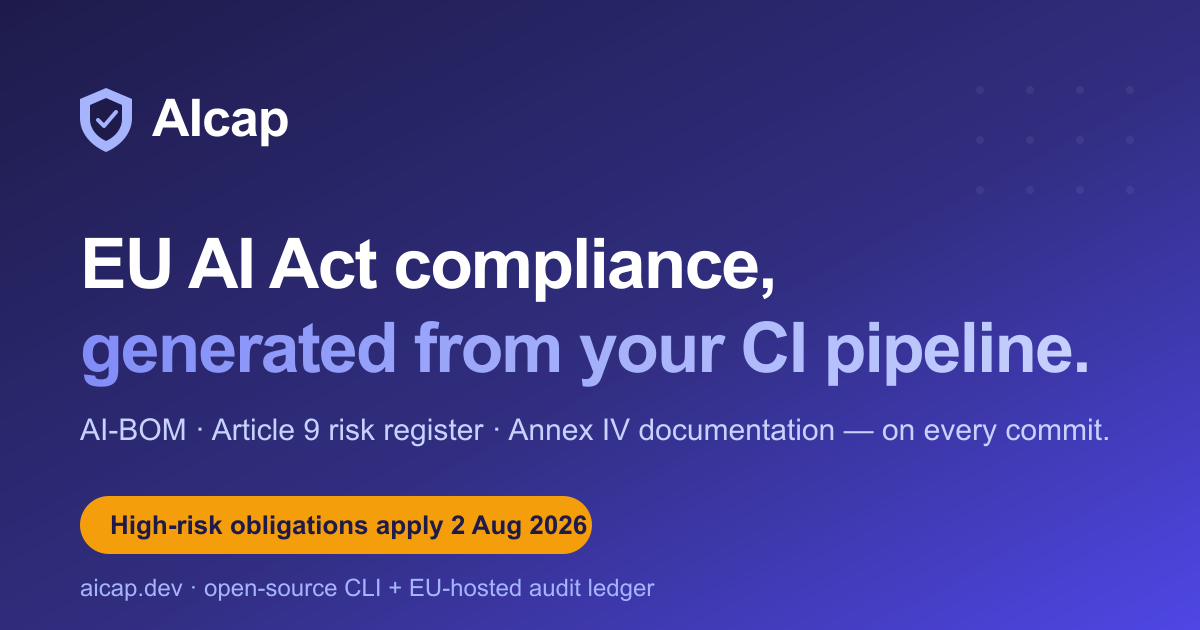
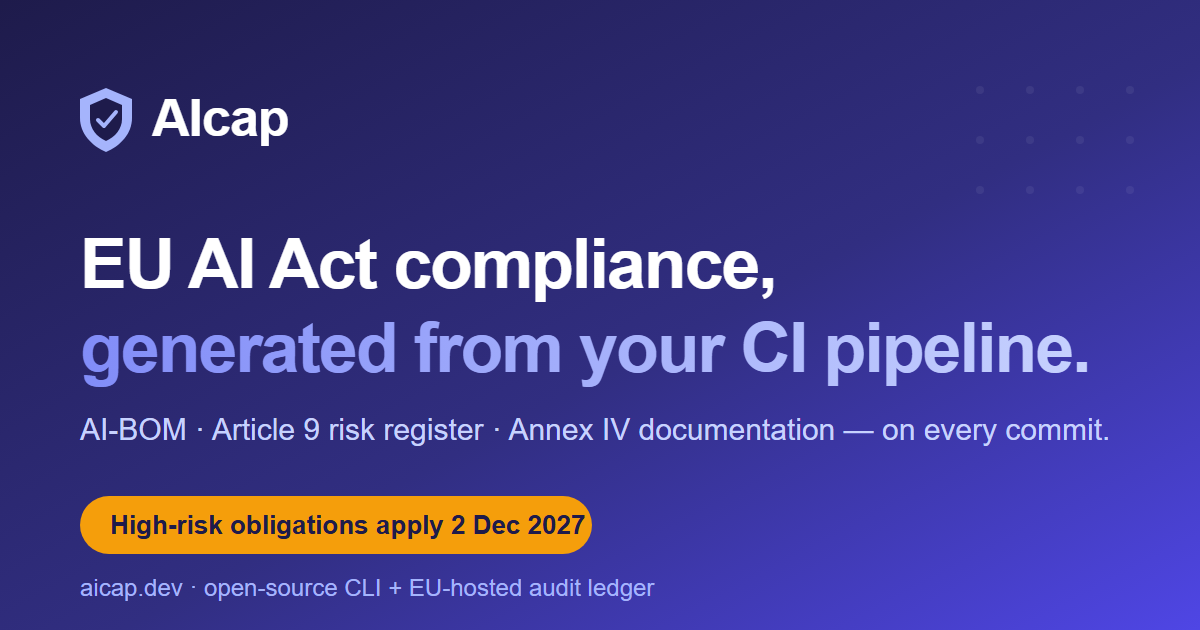
fix(site): the high-risk regime applies from December 2027, not August 2026
Regulation (EU) 2026/1744 (the "Digital Omnibus on AI", OJ L 24.7.2026)
amended Article 113: Chapter III, Sections 1-3 -- and with them Article 11
and Annex IV -- now apply from 2 December 2027 for Annex III systems and
2 August 2028 for Annex I systems. Article 50 was not moved and has applied
since 2 August 2026.

The site never caught up. The badge counted down to 2 August 2026 and then
flipped to "EU AI Act obligations are now in force"; the hero said every AI
system shipped to the EU had to comply by August 2026, which was not true
even before the amendment (the Act never applied to every system); the
social-preview image carried the old date; three guides repeated it.

- deadline.js targets 2 December 2027, and a test pins the date so the next
  change to it is a deliberate one.
- Badge copy names the obligation and the date in both states.
- Hero, page metadata and footer state what applies now and what applies
  later, rather than one undifferentiated deadline.
- Penalties guide rewritten against the amended text. It keeps its URL and
  now leads with what is enforceable today: Article 5, Article 50, GPAI.
- OG image re-rasterised. The SVG asked for font-weight 800, which Arial
  does not have; rasterisers disagree on the fallback and one clipped the
  headline. It now asks for 700, which is what the original PNG showed.
- Structured data claimed macOS and Windows support. The released binary
  is linux-amd64 only.
[…]

diff --git a/frontend/src/components/LandingAuth.jsx b/frontend/src/components/LandingAuth.jsx
@@ -2,28 +2,33 @@ import React, { useState } from 'react';
 import { Shield, CheckCircle, AlarmClock, MailCheck } from 'lucide-react';
 
 import { supabase } from '../lib/supabase.js';
-import { daysUntilAIAct } from '../lib/deadline.js';
+import { daysUntilHighRisk } from '../lib/deadline.js';
 import SampleReportSection from './SampleReportSection.jsx';
 import PricingSection from './PricingSection.jsx';
 import FAQSection from './FAQSection.jsx';
 import MarketingFooter from './MarketingFooter.jsx';
 
-// Deadline urgency chip: counts down to 2 August 2026 (EU AI Act
-// application date) and flips to "in force" copy once it passes, so
-// the landing page never shows a stale countdown.
+// Deadline chip: counts down to 2 December 2027, when the high-risk
+// regime (and with it Annex IV) applies to Annex III systems, and
+// switches to past-tense copy once that date passes.
+//
+// Both strings name the obligation and the date. The previous version
+// said "EU AI Act obligations are now in force" with neither — which
+// became false for the high-risk regime the moment Regulation (EU)
+// 2026/1744 moved it, and nothing on the page could tell a reader so.
 function DeadlineBadge() {
-  const days = daysUntilAIAct();
+  const days = daysUntilHighRisk();
   if (days > 0) {
     return (
       <div className="inline-flex items-center gap-2 px-3 py-1 bg-amber-100 text-amber-800 text-sm font-bold rounded-full">
         <AlarmClock className="w-4 h-4" />
-        {days} day{days === 1 ? '' : 's'} until EU AI Act obligations apply — 2 August 2026
+        {days} day{days === 1 ? '' : 's'} until high-risk obligations apply — 2 December 2027
       </div>
     );
   }
   return (
     <div className="inline-flex items-center gap-2 px-3 py-1 bg-red-100 text-red-700 text-sm font-bold rounded-full">
-      <AlarmClock className="w-4 h-4" /> EU AI Act obligations are now in force
+      <AlarmClock className="w-4 h-4" /> High-risk obligations have applied since 2 December 2027
     </div>
   );
 }
@@ -83,7 +88,7 @@ export default function LandingAuth() {
             Secure your AI supply chain. <span className="text-indigo-600">Automate compliance.</span>
           </h2>
           <p className="text-lg text-slate-600 leading-relaxed">
-            Every AI system shipped to the EU market must comply with the AI Act by August 2026. AIcap runs natively inside your CI/CD pipeline to generate your AI-BOM, track risks, and maintain an Immutable Audit Ledger.
+            The EU AI Act's Article 50 transparency duties have applied since 2 August 2026, and the high-risk regime — including Annex IV technical documentation — applies from 2 December 2027. AIcap runs natively inside your CI/CD pipeline to generate your AI-BOM, track risks, and maintain an Immutable Audit Ledger.
           </p>
           <div className="space-y-4 pt-4">
             <div className="flex items-start gap-3">

diff --git a/frontend/src/lib/deadline.js b/frontend/src/lib/deadline.js
@@ -1,12 +1,23 @@
-// EU AI Act application date for the bulk of obligations, including
-// high-risk system requirements (Art. 113): 2 August 2026. The landing
-// page counts down to this date; once it passes, the urgency framing
-// flips from "deadline approaching" to "obligations in force" so the
-// copy never goes stale.
-export const AI_ACT_DEADLINE = new Date('2026-08-02T00:00:00Z');
+// EU AI Act application date for the high-risk regime (Chapter III,
+// Sections 1-3 — which is where Article 11 and Annex IV live) for
+// stand-alone Annex III systems: 2 December 2027.
+//
+// This was 2 August 2026 until Regulation (EU) 2026/1744 (the "Digital
+// Omnibus on AI", OJ L 24.7.2026) amended Article 113. The same
+// regulation set 2 August 2028 for Annex I systems (AI in regulated
+// products). Article 50 transparency duties were NOT moved and have
+// applied since 2 August 2026 — the landing copy says so separately,
+// because "nothing applies until 2027" would be as wrong as the old
+// "everything applies in 2026".
+//
+// If the date moves again, change it here and in the copy that quotes
+// it: LandingAuth.jsx, index.html, public/og-image.svg (+ re-rasterise
+// the PNG), and the guides under frontend/guides/.
+export const HIGH_RISK_APPLIES = new Date('2027-12-02T00:00:00Z');
 
-// Whole days remaining until the deadline (ceiling, so the morning of
-// 1 August still reads "1 day"). Zero or negative means it has passed.
-export function daysUntilAIAct(now = new Date()) {
-  return Math.ceil((AI_ACT_DEADLINE - now) / 86400000);
+// Whole days remaining until the high-risk regime applies (ceiling, so
+// the morning of 1 December still reads "1 day"). Zero or negative
+// means it has passed.
+export function daysUntilHighRisk(now = new Date()) {
+  return Math.ceil((HIGH_RISK_APPLIES - now) / 86400000);
 }

diff --git a/frontend/src/lib/deadline.test.js b/frontend/src/lib/deadline.test.js
@@ -1,18 +1,26 @@
 import { describe, it, expect } from 'vitest';
 
-import { daysUntilAIAct } from './deadline.js';
+import { HIGH_RISK_APPLIES, daysUntilHighRisk } from './deadline.js';
 
-describe('daysUntilAIAct', () => {
-  it('counts whole days remaining before the deadline', () => {
-    expect(daysUntilAIAct(new Date('2026-07-06T12:00:00Z'))).toBe(27);
+describe('daysUntilHighRisk', () => {
+  // Pins the date itself. Regulation (EU) 2026/1744 moved the Annex III
+  // high-risk regime from 2 August 2026 to 2 December 2027; the landing
+  // page kept counting down to (and then announcing) the old date for
+  // months. A change here should be a deliberate, sourced edit.
+  it('targets 2 December 2027, the Annex III high-risk application date', () => {
+    expect(HIGH_RISK_APPLIES.toISOString()).toBe('2027-12-02T00:00:00.000Z');
   });
 
-  it('reads 1 day on the eve of the deadline', () => {
-    expect(daysUntilAIAct(new Date('2026-08-01T09:00:00Z'))).toBe(1);
+  it('counts whole days remaining before the date', () => {
+    expect(daysUntilHighRisk(new Date('2027-11-05T12:00:00Z'))).toBe(27);
   });
 
-  it('is zero or negative once the deadline has passed', () => {
-    expect(daysUntilAIAct(new Date('2026-08-02T00:00:00Z'))).toBe(0);
-    expect(daysUntilAIAct(new Date('2026-09-15T00:00:00Z'))).toBeLessThan(0);
+  it('reads 1 day on the eve of the date', () => {
+    expect(daysUntilHighRisk(new Date('2027-12-01T09:00:00Z'))).toBe(1);
+  });
+
+  it('is zero or negative once the date has passed', () => {
+    expect(daysUntilHighRisk(new Date('2027-12-02T00:00:00Z'))).toBe(0);
+    expect(daysUntilHighRisk(new Date('2028-01-15T00:00:00Z'))).toBeLessThan(0);
   });
 });

diff --git a/frontend/index.html b/frontend/index.html
@@ -17,7 +17,7 @@
     <meta property="og:type" content="website" />
     <meta property="og:site_name" content="AIcap" />
     <meta property="og:title" content="AIcap — EU AI Act Compliance Scanner for CI/CD" />
-    <meta property="og:description" content="Generate AI-BOMs, Annex IV documentation, OWASP ML risk registers, and GPU cost estimates from your CI pipeline. Built for the August 2026 EU AI Act deadline." />
+    <meta property="og:description" content="Generate AI-BOMs, Annex IV documentation, OWASP ML risk registers, and GPU cost estimates from your CI pipeline. Covers the Article 50 transparency duties in force since August 2026 and the high-risk regime that applies from December 2027." />
     <meta property="og:url" content="https://aicap.dev/" />
     <meta property="og:image" content="https://aicap.dev/og-image.png" />
     <meta property="og:image:width" content="1200" />
@@ -45,7 +45,7 @@
       "description": "Continuous AI-BOM and EU AI Act compliance scanner. Generates Annex IV documentation, an OWASP ML Top 10 risk register with live CVE data, Article 5 and Article 50 checks, and an immutable proof-drill audit ledger from your CI pipeline.",
       "applicationCategory": "DeveloperApplication",
       "applicationSubCategory": "Compliance Scanner",
-      "operatingSystem": "Linux, macOS, Windows",
+      "operatingSystem": "Linux",
       "offers": [
         {
           "@type": "Offer",

diff --git a/frontend/src/components/MarketingFooter.jsx b/frontend/src/components/MarketingFooter.jsx
@@ -40,7 +40,7 @@ export default function MarketingFooter() {
         <div>
           <h3 className="font-bold text-slate-900 mb-3">Compliance</h3>
           <ul className="space-y-2 text-slate-600">
-            <li>EU AI Act (Aug 2026)</li>
+            <li>EU AI Act (Reg. 2024/1689)</li>
             <li>CycloneDX 1.5</li>
             <li>OWASP ML Top 10</li>
             <li>MITRE ATLAS</li>

diff --git a/frontend/guides/eu-ai-act-penalties-august-2026.md b/frontend/guides/eu-ai-act-penalties-august-2026.md
@@ -1,56 +1,90 @@
 ---
-title: EU AI Act penalties — what actually happens after 2 August 2026
-description: The real enforcement picture — penalty tiers up to €35M or 7% of turnover, who enforces them, what triggers them, and the engineering work that reduces exposure.
-date: 2026-07-06
+title: EU AI Act penalties — what applies now, and what moved to December 2027
+description: The real enforcement picture after the Digital Omnibus — which obligations are already enforceable, which moved to 2027 and 2028, the penalty tiers up to €35M or 7% of turnover, and the engineering work that reduces exposure.
+date: 2026-11-15
 ---
 
-# EU AI Act penalties: what actually happens after 2 August 2026
+# EU AI Act penalties: what applies now, and what moved to December 2027
 
-On **2 August 2026**, the bulk of the EU AI Act's obligations become
-applicable — including the high-risk system requirements and their
-enforcement regime. Here is what the penalty structure actually says, who
-enforces it, and what engineering teams can do that measurably reduces
-exposure.
+This guide originally described 2 August 2026 as the date the bulk of the
+EU AI Act became applicable, including the high-risk regime. That is no
+longer accurate. **Regulation (EU) 2026/1744** — the "Digital Omnibus on
+AI", published in the Official Journal on 24 July 2026 — moved the
+high-risk dates. The guide has been rewritten against the amended text.
+
+## The dates, as amended
+
+| Date | What applies |
+|---|---|
+| 2 February 2025 | Article 5 prohibited practices |
+| 2 August 2025 | General-purpose model obligations (Chapter V) and the penalty regime (Chapter XII) |
+| **2 August 2026** | **Article 50 transparency duties**, and the remainder of the Act not listed elsewhere |
+| 2 December 2026 | Article 50(2) machine-readable marking for generative systems already on the market before 2 August 2026; additional Article 5 prohibitions added by the Omnibus |
+| **2 December 2027** | **High-risk requirements (Chapter III, Sections 1–3) for Annex III systems** — previously 2 August 2026 |
+| 2 August 2028 | The same requirements for Annex I systems (AI in regulated products) — previously 2 August 2027 |
+| 2 August 2030 | High-risk systems intended for use by public authorities |
+
+Two things follow. The high-risk documentation duty — Article 11 and
+Annex IV — is not yet enforceable for most systems. And the Act is not
+dormant either: the prohibitions, the general-purpose model duties, and the
+Article 50 transparency duties are all applicable today.
 
 ## The three penalty tiers (Article 99)
 
 | Violation | Maximum fine |
 |---|---|
 | Prohibited practices (Art. 5 — social scoring, manipulative systems, most real-time biometric ID) | **€35M or 7%** of global annual turnover |
-| Non-compliance with high-risk obligations (Arts. 8–15: risk management, data governance, **technical documentation**, human oversight, accuracy) | **€15M or 3%** of global annual turnover |
+| Non-compliance with operator obligations — the high-risk requirements (risk management, data governance, **technical documentation**, human oversight, accuracy) and the **Article 50 transparency duties** | **€15M or 3%** of global annual turnover |
 | Supplying incorrect or misleading information to authorities | **€7.5M or 1%** of global annual turnover |
 
 Whichever is *higher* applies — except for SMEs and startups, where
-whichever is *lower* applies. That SME carve-out matters, but a
-percentage-of-turnover fine is existential at any size.
+whichever is *lower* applies. The Omnibus extended that lower-of rule to
+small mid-cap companies as well. These are statutory ceilings, not tariffs:
+authorities must set fines proportionately. A percentage-of-turnover
+ceiling is still not something to plan around hitting.
+
+## What is enforceable today
+
+- **Article 5.** If a component in your system infers emotion in a
+  workplace or classroom, or performs biometric categorisation or
+  identification, the question of whether a prohibition applies is a live
+  one now, in the highest penalty tier.
+- **Article 50.** Telling people they are interacting with an AI system,
+  marking synthetic output machine-readably, informing people subject to
+  emotion recognition or biometric categorisation, and disclosing deep
+  fakes. If you put a generative system on the market on or after
+  2 August 2026, the marking duty has applied to it from day one. If it was
+  already on the market before that date, you have until 2 December 2026.
+- **General-purpose model duties**, if you are a model provider rather than
+  a deployer.
 
 ## Who actually enforces this
 
 - **National market surveillance authorities** (one or more per member
-  state) handle high-risk systems. They can demand your technical
-  documentation, order corrective action, and ultimately pull a system from
-  the market.
+  state) handle AI systems. They can demand documentation, order corrective
+  action, and ultimately pull a system from the market.
 - **The European AI Office** oversees general-purpose model providers
   directly.
 - **Anyone can complain.** Article 85 gives any person the right to lodge an
   infringement complaint with a market surveillance authority — a
   disgruntled user, a competitor, an NGO.
 
-The realistic first-contact scenario is not a dawn raid. It is a **document
-request**: the authority asks for your Annex IV technical documentation and
-your Article 9 risk management evidence, typically with a deadline in weeks.
-What happens next depends almost entirely on whether that documentation
-exists and is current.
+The realistic first-contact scenario is not a dawn raid. It is a **request
+for information**: the authority asks what the system does, what it is
+built from, and what you did about the duty in question, typically with a
+deadline in weeks. What happens next depends almost entirely on whether an
+accurate, current answer already exists.
 
 ## The two failure modes that generate fines
 
-**1. You have no documentation.** Article 11 requires technical
-documentation to exist *before* market placement and to be kept up to date.
-"We were going to write it" is a tier-2 violation on its face.
+**1. You have nothing to show.** For a high-risk system, Article 11 requires
+technical documentation to exist *before* market placement and to be kept
+up to date. From 2 December 2027, "we were going to write it" is a
+violation on its face.
 
-**2. Your documentation contradicts your system.** The component list says
-scikit-learn; the container ships a fine-tuned Llama. Now you are in tier-3
-territory too — incorrect information supplied to an authority — and you
+**2. What you show contradicts your system.** The component list says
+scikit-learn; the container ships a fine-tuned Llama. Now you are in the
+third tier too — incorrect information supplied to an authority — and you
 have converted an administrative gap into a credibility problem.
 
 The second failure mode is the insidious one, because it is the *default
@@ -60,14 +94,15 @@ written last quarter.
 
 ## What reduces exposure, in order of effort
 
-1. **Classify honestly, now.** Map your systems against Annex III. The
-   analysis costs a workshop; discovering you were high-risk during a
-   document request costs much more.
+1. **Classify honestly, now.** Map your systems against Article 5,
+   Article 50, and Annex III. The analysis costs a workshop; discovering
+   you were in scope during an information request costs much more.
 2. **Generate the mechanical evidence continuously.** Component inventory
    (AI-BOM), per-component risk register, hardware description — these can
-   be produced from your repository on every commit. Continuous generation
-   is not just cheaper; Article 9 *requires* risk management to be
-   "continuous and iterative", so the process itself is evidence.
+   be produced from your repository on every commit. Article 9 requires
+   high-risk risk management to be "continuous and iterative", so a
+   process that has been running since before the application date is
+   itself evidence.
 3. **Make the record tamper-evident.** When an authority asks "what did you
    know and when", a hash-chained ledger of every scan — where editing or
    deleting a historical entry visibly breaks the chain — is a categorically
@@ -77,22 +112,32 @@ written last quarter.
    oversight design, accuracy claims. No tool writes these; every tool
    should embed them.
 
-## The uncomfortable part of the timeline
+## What the delay does and does not buy you
 
-Enforcement authority appointments and procedures are still maturing across
-member states, and early enforcement will likely be complaint-driven and
-uneven. It is tempting to read that as "nothing will happen for a while".
-Two problems with that bet: the *documentation* obligation is binary and
-retrospective — a system placed on the market in August 2026 without
-documentation is non-compliant from day one, whenever the question arrives —
-and your **enterprise customers are not waiting**: AI Act evidence is
-already appearing in procurement questionnaires, which is a faster and more
-certain enforcement mechanism than any regulator.
+The stated reason for the delay is that harmonised standards and national
+authorities were not ready. It is tempting to read sixteen extra months as
+sixteen months in which nothing needs doing. Three reasons not to:
+
+- A high-risk system already on the market is brought into scope by a
+  significant design change after the application date. The inventory you
+  will need in order to know whether a change is significant is the one
+  you would be building now.
+- The duties that did *not* move — Article 5 and Article 50 — attach to
+  the same components. An inventory that tells you which of your services
+  generate synthetic content or call a general-purpose model is the
+  starting point for both.
+- Your **enterprise customers are not waiting**. AI Act evidence appears in
+  procurement questionnaires regardless of the regulator's calendar, which
+  is a faster and more certain enforcement mechanism than any authority.
 
 ## Start with the part that costs one CI job
 
-The mechanical half of the evidence (AI-BOM, risk register, Annex IV draft,
-immutable scan ledger) is a single GitHub Actions job with AIcap — free CLI,
-EU-hosted ledger, and your source code never leaves your pipeline. The
-judgement half is yours either way; stop spending engineering time on the
-half that automates.
+The mechanical half of the evidence (AI-BOM, risk register, Article 5 and
+Article 50 indicators, Annex IV draft, hash-chained scan ledger) is a
+single GitHub Actions job with AIcap — free CLI, EU-hosted ledger, and your
+source code never leaves your pipeline. The judgement half is yours either
+way; stop spending engineering time on the half that automates.
+
+This guide is engineering guidance, not legal advice. Check the dates above
+against the Official Journal text of Regulation (EU) 2024/1689 as amended
+before relying on them.

diff --git a/frontend/guides/eu-ai-act-annex-iv-technical-documentation-checklist.md b/frontend/guides/eu-ai-act-annex-iv-technical-documentation-checklist.md
@@ -8,8 +8,10 @@ date: 2026-07-06
 
 If you provide a **high-risk AI system** in the EU, Article 11 of the AI Act
 requires technical documentation *before* the system goes on the market — and
-Annex IV defines exactly what that documentation must contain. From
-**2 August 2026**, this stops being a future obligation.
+Annex IV defines exactly what that documentation must contain. For
+stand-alone (Annex III) high-risk systems the obligation applies from
+**2 December 2027**; for AI in regulated products (Annex I), from
+**2 August 2028**.
 
 This checklist walks through every Annex IV section from an engineering
 perspective: what evidence satisfies it, and whether it can be generated from
@@ -116,7 +118,16 @@ auditor sees "we looked and found nothing automated" rather than silence.
 
 ## Timeline reality check
 
-The obligations for most high-risk systems apply from **2 August 2026**.
+The high-risk obligations were originally due to apply from 2 August 2026.
+Regulation (EU) 2026/1744 (the "Digital Omnibus on AI", published 24 July
+2026) moved them: **2 December 2027** for Annex III systems, **2 August
+2028** for Annex I systems, and 2 August 2030 for high-risk systems
+intended for use by public authorities. A system already on the market
+before its date comes into scope when its design changes significantly
+afterwards.
+
 Documentation must exist *before* market placement, and Article 99 penalties
 for non-compliance with high-risk obligations reach **€15 million or 3% of
-global turnover**. Starting the mechanical half today costs one CI job.
+global turnover**. Starting the mechanical half today costs one CI job — and
+a record that has been accumulating since before the application date is a
+better answer to "since when?" than one that starts the week before.

diff --git a/frontend/guides/eu-ai-act-article-53-gpai-documentation.md b/frontend/guides/eu-ai-act-article-53-gpai-documentation.md
@@ -6,8 +6,9 @@ date: 2026-07-06
 
 # Article 53: documentation duties for GPAI model providers
 
-Most EU AI Act coverage fixates on high-risk *systems* and the August 2026
-date. But if you provide a **general-purpose AI model** — including a
+Most EU AI Act coverage fixates on high-risk *systems* and their application
+date — now 2 December 2027, after the Digital Omnibus moved it from August
+2026. But if you provide a **general-purpose AI model** — including a
 fine-tune of someone else's — a separate obligation set in Article 53 has
 already applied **since 2 August 2025**. If that describes you, this is not
 a countdown; you are in the applicability window now.
